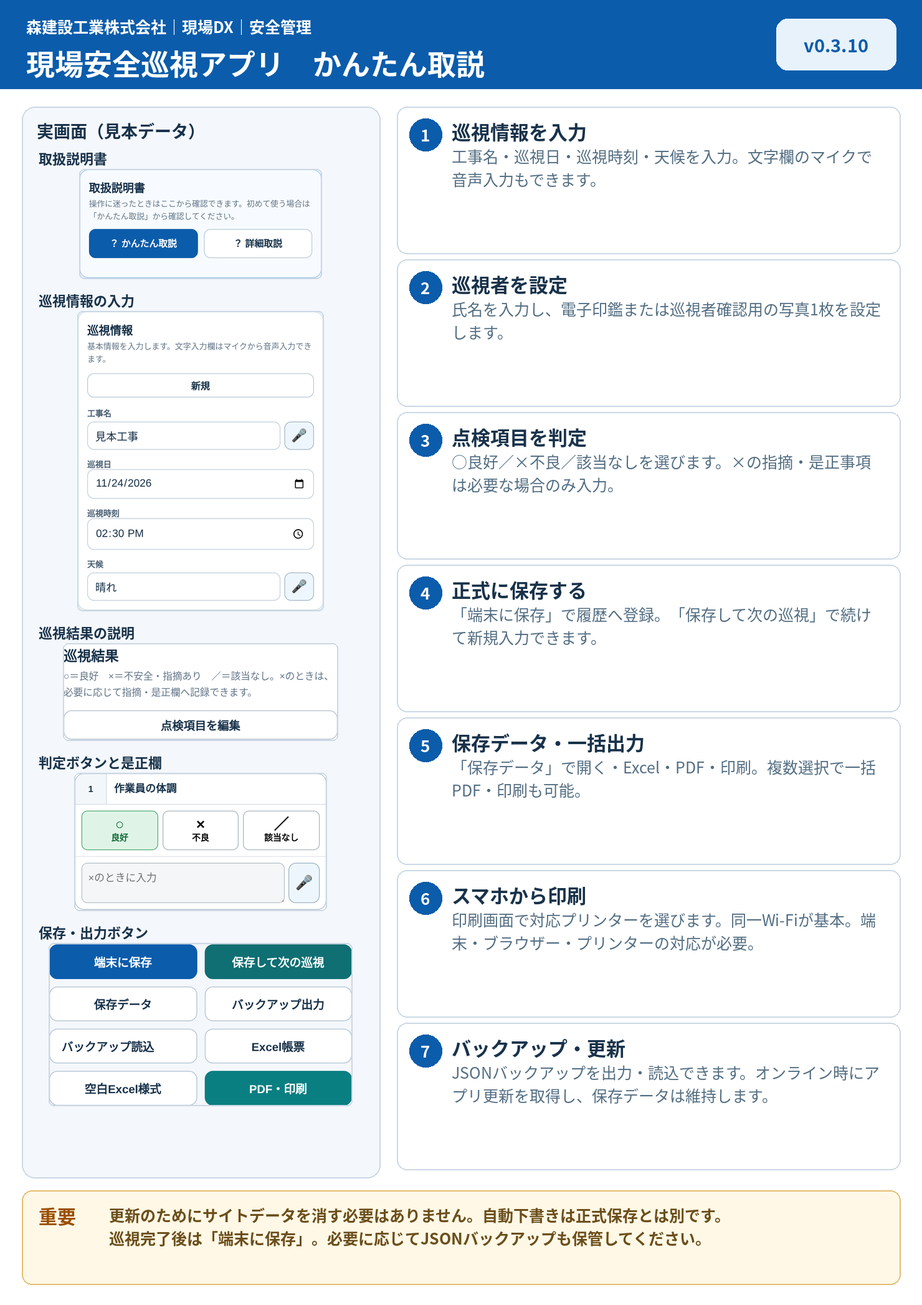
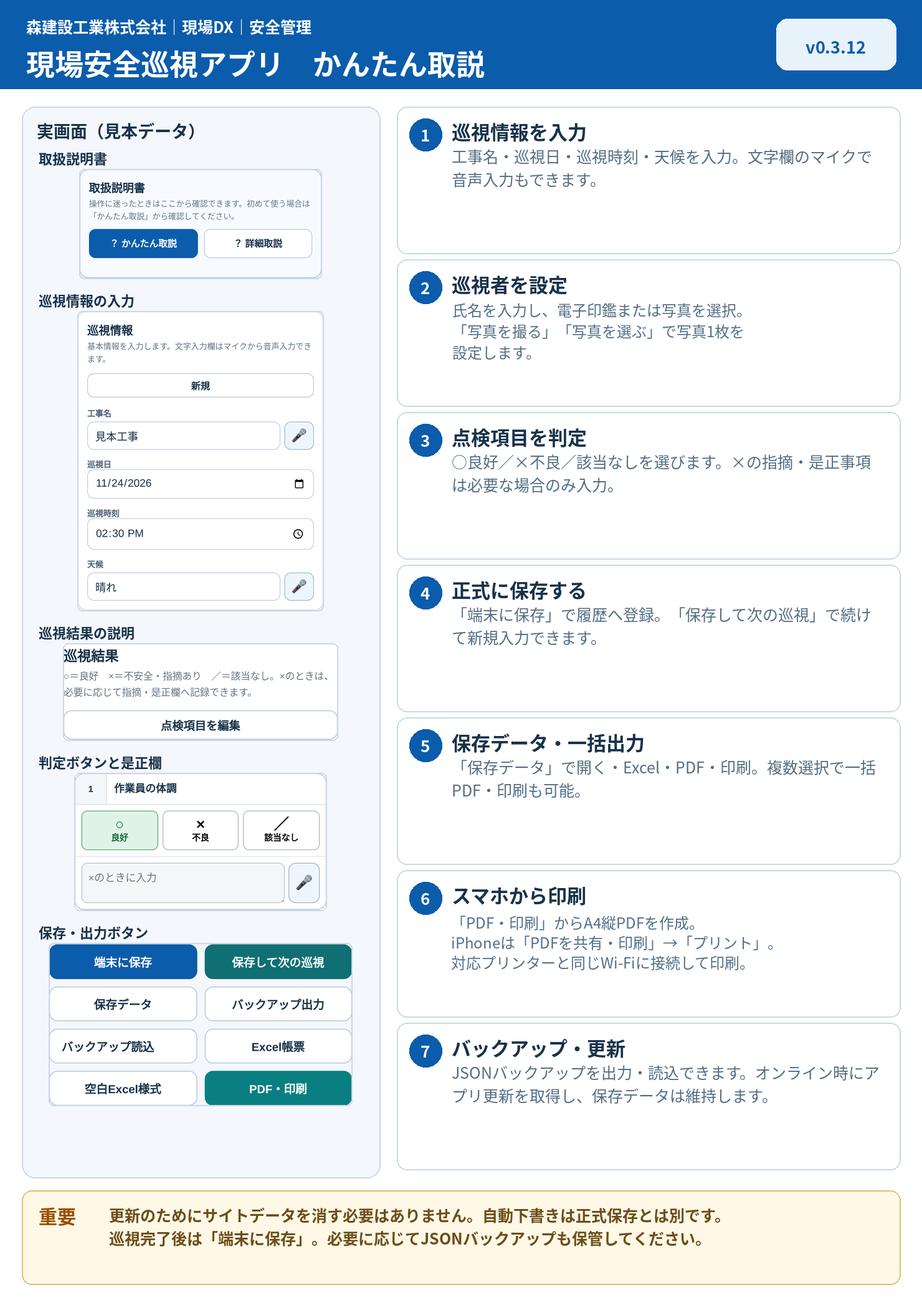
v0.3.12 写真撮影ボタン追加・PDF帳票印欄修正

diff --git a/index.html b/index.html
@@ -4,11 +4,11 @@
 <meta charset="utf-8">
 <meta name="viewport" content="width=device-width,initial-scale=1,viewport-fit=cover">
 <meta name="theme-color" content="#0b5cab">
-<meta name="app-revision" content="v0.3.10-r1">
+<meta name="app-revision" content="v0.3.12-r1">
 <meta name="description" content="森建設工業 現場安全巡視点検アプリ">
 <link rel="manifest" href="./manifest.webmanifest">
 <link rel="icon" href="./icon.svg" type="image/svg+xml">
-<title>現場安全巡視 v0.3.10｜森建設工業DX</title>
+<title>現場安全巡視 v0.3.12｜森建設工業DX</title>
 <style>
 :root{--bg:#f4f7fb;--card:#fff;--text:#18324a;--muted:#66788a;--line:#d6e0ea;--blue:#0b5cab;--blue2:#e8f2fb;--teal:#0a7f82;--orange:#c86b16;--red:#b42318;--shadow:0 8px 24px rgba(25,55,80,.08)}
 *{box-sizing:border-box}body{margin:0;background:var(--bg);color:var(--text);font-family:-apple-system,BlinkMacSystemFont,"Segoe UI","Noto Sans JP","Meiryo",sans-serif}.app-header{display:flex;justify-content:space-between;gap:16px;padding:18px 22px;background:#fff;border-bottom:1px solid var(--line);position:sticky;top:0;z-index:20}.eyebrow{font-size:12px;color:var(--muted);font-weight:700}.app-header h1{font-size:22px;margin:3px 0}.subline{font-size:13px;color:var(--muted)}.status-wrap{display:flex;align-items:center;gap:8px}.status-badge,.version,.legend-chip{font-size:12px;padding:6px 9px;border-radius:999px;background:var(--blue2);color:var(--blue);white-space:nowrap}.app-shell{max-width:1280px;margin:0 auto;padding:18px}.panel{background:var(--card);border:1px solid var(--line);border-radius:16px;padding:16px;box-shadow:var(--shadow);margin-bottom:16px}.section-head{display:flex;justify-content:space-between;align-items:flex-start;gap:12px;flex-wrap:wrap}.section-head>div:first-child{flex:1 1 auto;min-width:0}.section-head h2{font-size:17px;margin:0 0 4px}.hint{margin:0;color:var(--muted);font-size:12px;line-height:1.55;word-break:normal;overflow-wrap:break-word}.form-grid{display:grid;grid-template-columns:repeat(4,minmax(0,1fr));gap:12px;margin-top:14px}.field label,.form-grid label{font-size:12px;font-weight:700;color:#4b6074;display:block}.input-row{display:flex;gap:6px;margin-top:5px}.input-row input,.input-row textarea,.field input,.field select,.field textarea,.form-grid input,.form-grid select{width:100%;border:1px solid #bfcddb;border-radius:10px;padding:11px;font-size:16px;color:var(--text);background:#fff;font-family:inherit}.input-row textarea{min-height:72px;resize:vertical}.voice{flex:0 0 44px;border:1px solid #9db3c5;background:#eef6fd;color:#0b5cab;border-radius:10px;font-size:19px;cursor:pointer}.voice.listening{background:#ffe6e3;border-color:#db6a61;color:#b42318;animation:pulse 1s infinite}@keyframes pulse{50%{opacity:.55}}
@@ -96,6 +96,29 @@
 #quickGuideDialog .guide-image-actions .btn,#detailGuideDialog .guide-image-actions .btn{min-width:0;flex:1;white-space:nowrap;padding:8px 5px}
 @media(max-height:550px){#quickGuideDialog .guide-caption,#detailGuideDialog .guide-caption{display:none}#quickGuideDialog .guide-dialog-card,#detailGuideDialog .guide-dialog-card{grid-template-rows:auto auto minmax(0,1fr) auto;gap:4px;padding:8px!important}}
 
+
+/* v0.3.11: fixed A4 PDF output dialog, scoped to this dialog only. */
+#pdfDialog{width:min(560px,94vw);max-height:92vh;max-height:92dvh;margin:auto;overflow:auto;color:var(--text);background:#fff}
+#pdfDialog .pdf-card{padding:15px;display:grid;gap:11px;min-width:0}
+#pdfDialog .pdf-header{display:flex;gap:10px;align-items:center;justify-content:space-between}
+#pdfDialog h2{margin:0;font-size:18px;line-height:1.35}
+#pdfDialog .pdf-header .btn{flex:none;white-space:nowrap}
+#pdfDialog p{font-size:13px;line-height:1.6;margin:0;overflow-wrap:anywhere}
+#pdfDialog #pdfCount{font-weight:700;color:var(--blue);font-size:14px}
+#pdfDialog #pdfProgress{width:100%;height:12px;accent-color:var(--blue)}
+#pdfDialog .pdf-preview-area{background:#edf2f6;border:1px solid var(--line);border-radius:10px;padding:7px;text-align:center}
+#pdfDialog #pdfPreview{display:block;max-width:100%;width:auto;height:auto;max-height:min(42vh,400px);margin:0 auto;border:1px solid #c0ccd6;object-fit:contain}
+#pdfDialog #pdfPreviewCaption{font-size:11px;color:var(--muted);margin-top:5px}
+#pdfDialog .pdf-actions{display:grid;grid-template-columns:repeat(2,minmax(0,1fr));gap:8px}
+#pdfDialog .pdf-actions .btn{min-width:0;display:block;text-align:center;text-decoration:none;font-size:14px;line-height:1.4;padding:12px 6px}
+#pdfDialog #pdfShareBtn{grid-column:1/-1}
+#pdfDialog .pdf-note{color:var(--muted);font-size:12px}
+#pdfDialog .pdf-error{color:var(--red);font-weight:700}
+
+
+/* v0.3.12: photo controls only. */
+#photoControls .photo-actions>button{min-width:0;white-space:normal;line-height:1.4;text-align:center;min-height:42px}
+@media(max-width:560px){#photoControls .photo-actions{display:grid;grid-template-columns:minmax(0,1fr) minmax(0,1fr);gap:8px}#photoControls #removePhoto{grid-column:1/-1;justify-self:start}#photoControls .photo-actions>button{padding:9px 6px}}
 </style>
 </head>
 <body>
@@ -107,7 +130,7 @@
   </div>
   <div class="status-wrap">
     <span id="draftBadge" class="status-badge">自動下書き</span>
-    <span class="version">v0.3.10</span>
+    <span class="version">v0.3.12</span>
   </div>
 </header>
 <main class="app-shell">
@@ -148,8 +171,8 @@
           <p class="small">例：「佐々木かなめ」「佐々木 要」→「佐々木」。自動判定が違う場合だけ印鑑文字を修正してください。</p>
         </div>
         <div id="photoControls" class="hidden">
-          <div class="photo-actions"><label class="btn" for="photoInput">写真を選ぶ／撮る</label><input id="photoInput" type="file" accept="image/*" hidden><button id="removePhoto" class="btn btn-light" type="button">写真を外す</button></div>
-          <p class="small">顔・全身などの区分は設けません。巡視者確認用の写真を1枚設定します。</p>
+          <div class="photo-actions"><button id="takePhotoBtn" class="btn btn-primary" type="button">写真を撮る</button><input id="cameraInput" type="file" accept="image/*" capture="user" hidden><button id="choosePhotoBtn" class="btn" type="button">写真を選ぶ</button><input id="photoInput" type="file" accept="image/*" hidden><button id="removePhoto" class="btn btn-light" type="button">写真を外す</button></div>
+          <p class="small">撮影または端末内の写真から、巡視者確認用の写真を1枚設定します。</p>
         </div>
       </div>
       <div class="identity-preview" id="identityPreview"></div>
@@ -193,8 +216,8 @@
 
   <section class="panel release-history-panel">
     <details>
-      <summary>バージョンアップ情報（変更履歴 v0.1.0 ～ v0.3.10）</summary>
-      <div class="release-history"><div class="release-entry current"><div class="release-title">v0.3.10 <span>2026-11-25</span></div><ul><li>取説画像とアプリアイコンの旧キャッシュのみ自動削除・更新</li><li>保存履歴・巡視者写真・下書き・設定・点検項目を保持</li><li>最新版の取得が完了してから更新を有効化。既存機能と表示を維持</li></ul></div><div class="release-entry"><div class="release-title">v0.3.9 <span>2026-11-24</span></div><ul><li>「かんたん取説」「詳細取説」を画像付きガイドに変更</li><li>取説画像の縦横比を維持して表示し、拡大表示にも対応</li><li>スマホで「巡視結果」の見出し・説明文が縦詰まりしないようレイアウトを修正</li><li>保存キー・保存データ形式・一括PDF/印刷・元帳票.xlsx出力はv0.3.8から変更なし</li></ul></div>
+      <summary>バージョンアップ情報（変更履歴 v0.1.0 ～ v0.3.12）</summary>
+      <div class="release-history"><div class="release-entry current"><div class="release-title">v0.3.12 <span>2026-11-25</span></div><ul><li>PDF帳票の巡視員名横の「印」欄を削除し、氏名欄に統合</li><li>巡視者写真の撮影用と端末写真の選択用ボタンを分離。撮影では前面カメラを優先</li><li>画像付き取説を更新。既存の保存データ・A4 PDF・一括出力・Excel・キャッシュ更新を維持</li></ul></div><div class="release-entry"><div class="release-title">v0.3.11 <span>2026-11-25</span></div><ul><li>印刷用HTMLをA4縦のPDF実ファイルに変更。通常30項目・備考を1件1ページに収めるよう修正</li><li>現在の記録・保存データの個別出力・一括出力で同じPDF方式を使用。iPhone/iPadでは共有画面から印刷可能</li><li>長文は文字を切り捨てず、収まらない場合のみ続紙へ出力</li><li>既存のExcel帳票、保存キー、写真、下書き、設定、点検項目、画像キャッシュ保護を維持</li></ul></div><div class="release-entry"><div class="release-title">v0.3.10 <span>2026-11-25</span></div><ul><li>取説画像とアプリアイコンの旧キャッシュのみ自動削除・更新</li><li>保存履歴・巡視者写真・下書き・設定・点検項目を保持</li><li>最新版の取得が完了してから更新を有効化。既存機能と表示を維持</li></ul></div><div class="release-entry"><div class="release-title">v0.3.9 <span>2026-11-24</span></div><ul><li>「かんたん取説」「詳細取説」を画像付きガイドに変更</li><li>取説画像の縦横比を維持して表示し、拡大表示にも対応</li><li>スマホで「巡視結果」の見出し・説明文が縦詰まりしないようレイアウトを修正</li><li>保存キー・保存データ形式・一括PDF/印刷・元帳票.xlsx出力はv0.3.8から変更なし</li></ul></div>
         <div class="release-entry"><div class="release-head"><b>v0.3.8</b><span>2026/11/24</span></div><ul><li>保存データを複数選択して一括PDF・印刷できる機能を追加</li><li>アプリ内に「かんたん取説」「詳細取説」を追加</li><li>v0.3.7の保存キー・保存データ形式・Excel帳票出力を変更せず維持</li></ul></div>
         <div class="release-entry"><div class="release-head"><b>v0.3.7</b><span>2026/11/23</span></div><ul><li>Excel帳票・空白Excel様式の出力スクリプト読み込み漏れを修正</li><li>完成版としてZIP構成・スマホ表示・保存・帳票出力・バージョン情報を再点検</li><li>スマホの「点検項目を編集」ボタンを全幅表示へ調整</li></ul></div>
         <div class="release-entry"><div class="release-head"><b>v0.3.6</b><span>2026/11/23</span></div><ul><li>スマホ縦画面の巡視結果をカード表示へ変更し、横スクロールなしで○／×／該当なしを選択可能に改善</li><li>PC・タブレットでは従来の表形式を維持</li></ul></div>
@@ -223,12 +246,13 @@
 <dialog id="historyDialog"><div class="dialog-card"><div class="section-head"><div><h2>保存データ</h2><p class="hint">保存した巡視記録を開く・出力・削除できます。複数選択して一括PDF・印刷もできます。</p></div><button class="btn btn-light" id="closeHistory" type="button">閉じる</button></div><div class="history-toolbar"><label class="checkline"><input id="historySelectAll" type="checkbox"> 一覧を全選択</label><span id="historySelectedCount" class="small">0件選択中</span><div class="history-bulk-actions"><button id="bulkPrintBtn" class="btn btn-accent" type="button" disabled>選択データを一括PDF・印刷</button><button id="bulkClearBtn" class="btn btn-light" type="button">選択解除</button></div></div><div id="historyList" class="history-list"></div></div></dialog>
 <dialog id="quickGuideDialog"><div class="dialog-card guide-dialog-card"><div class="section-head guide-dialog-head"><div><h2>かんたん取説</h2><p class="hint">最初は全体が1画面に収まる大きさで表示します。</p></div><button class="btn btn-light" id="closeQuickGuide" type="button">閉じる</button></div><div class="guide-image-controls" aria-label="画像の表示倍率"><button class="btn btn-light guide-zoom-btn" type="button" data-guide-zoom="out" data-guide-target="quickGuideImage">－ 縮小</button><button class="btn btn-light guide-zoom-btn" type="button" data-guide-zoom="fit" data-guide-target="quickGuideImage">全体表示</button><span class="guide-zoom-label" id="quickGuideZoomLabel">全体 100%</span><button class="btn btn-light guide-zoom-btn" type="button" data-guide-zoom="in" data-guide-target="quickGuideImage">＋ 拡大</button></div><div class="guide-image-wrap"><img id="quickGuideImage" src="./guide-quick.png" alt="現場安全巡視アプリ かんたん取説"></div><p class="guide-caption">入力から保存、保存データ、一括PDF・印刷までを1枚で確認できます。</p><div class="guide-image-actions"><button id="openDetailFromQuick" class="btn" type="button">詳細取説へ</button><button id="closeQuickGuide2" class="btn btn-primary" type="button">閉じる</button></div></div></dialog>
 <dialog id="detailGuideDialog"><div class="dialog-card guide-dialog-card"><div class="section-head guide-dialog-head"><div><h2>詳細取説</h2><p class="hint">最初は全体が1画面に収まる大きさで表示します。</p></div><button class="btn btn-light" id="closeDetailGuide" type="button">閉じる</button></div><div class="guide-image-controls" aria-label="画像の表示倍率"><button class="btn btn-light guide-zoom-btn" type="button" data-guide-zoom="out" data-guide-target="detailGuideImage">－ 縮小</button><button class="btn btn-light guide-zoom-btn" type="button" data-guide-zoom="fit" data-guide-target="detailGuideImage">全体表示</button><span class="guide-zoom-label" id="detailGuideZoomLabel">全体 100%</span><button class="btn btn-light guide-zoom-btn" type="button" data-guide-zoom="in" data-guide-target="detailGuideImage">＋ 拡大</button></div><div class="guide-image-wrap"><img id="detailGuideImage" src="./guide-detail.png" alt="現場安全巡視アプリ 詳細取説"></div><p class="guide-caption">巡視情報、巡視者、30項目判定、期間コピー、保存データ、一括PDF・印刷、Excel帳票、バックアップまで説明しています。</p><div class="guide-image-actions"><button id="closeDetailGuide2" class="btn btn-primary" type="button">閉じる</button></div></div></dialog>
+<dialog id="pdfDialog"><div class="pdf-card"><div class="pdf-header"><h2>PDF・印刷（A4縦）</h2><button id="closePdfDialog" type="button" class="btn btn-light">閉じる</button></div><p id="pdfMessage" role="status" aria-live="polite">PDFを準備しています。</p><progress id="pdfProgress" value="0" max="1"></progress><p id="pdfCount" aria-live="polite"></p><div id="pdfPreviewArea" class="pdf-preview-area hidden"><img id="pdfPreview" alt="PDF先頭ページの印刷プレビュー"><p id="pdfPreviewCaption"></p></div><div class="pdf-actions"><button id="pdfShareBtn" class="btn btn-primary hidden" type="button">PDFを共有・印刷</button><a id="pdfOpenBtn" class="btn btn-primary hidden" target="_blank" rel="noopener">PDFを開く</a><a id="pdfSaveBtn" class="btn hidden" download>PDFを保存</a></div><p class="pdf-note">用紙はA4・縦を選択してください。PDFを使うため印刷時にHTMLの改ページが発生しません。iPhone／iPadは共有画面からプリントできます。対応プリンターが必要です。</p></div></dialog>
 <div id="toast" class="toast"></div>
 <script src="./excel-export.js"></script>
 <script>
 (()=>{
 'use strict';
-const APP_VERSION='0.3.10';
+const APP_VERSION='0.3.12';
 const STORAGE_KEY='moriken_safety_patrol_v1';
 const SETTINGS_KEY='moriken_safety_patrol_settings_v1';
 const TEMPLATE_KEY='moriken_safety_patrol_template_v1';
@@ -356,14 +380,226 @@ function renderHistory(){const box=$('historyList');const validIds=new Set(histo
 function updateHistorySelectionUi(){const count=selectedHistoryIds.size;$('historySelectedCount').textContent=`${count}件選択中`;$('bulkPrintBtn').disabled=count===0;const all=$('historySelectAll');all.checked=history.length>0&&count===history.length;all.indeterminate=count>0&&count<history.length}
 function clearHistorySelection(){selectedHistoryIds.clear();renderHistory()}
 function selectedHistoryRecords(){return history.filter(r=>selectedHistoryIds.has(r.id)).sort((a,b)=>String(a.workDate).localeCompare(String(b.workDate))||String(a.updatedAt).localeCompare(String(b.updatedAt)))}
-function printSelectedRecords(){const records=selectedHistoryRecords();if(!records.length){toast('一括PDF・印刷するデータを選択してください');return}for(const r of records){if(!validateForOutput(r))return}const w=window.open('','_blank');if(!w){toast('ポップアップを許可してください');return}const pages=records.map((r,i)=>{const html=reportHtml(r);const body=(html.match(/<body>([\s\S]*?)<\/body>/i)||[])[1]||html;return `<section class="bulk-page" style="break-after:${i===records.length-1?'auto':'page'};page-break-after:${i===records.length-1?'auto':'always'}">${body}</section>`}).join('');w.document.write(`<!doctype html><html><head><meta charset="utf-8"><style>@page{size:A4 portrait;margin:9mm}body{font-family:Meiryo,sans-serif;color:#111;margin:0}h2{text-align:center;margin:4px 0 8px;font-size:17px}table{border-collapse:collapse;width:100%}th,td{border:1px solid #555;padding:4px;font-size:10px;vertical-align:middle}th{background:#dce8f2}.meta td,.meta th{font-size:10px}.identity{text-align:center;width:95px}.note{white-space:pre-wrap}.bulk-page{margin:0;padding:0}</style></head><body>${pages}</body></html>`);w.document.close();w.onload=()=>setTimeout(()=>w.print(),220)}
-function statusMark(s){return s==='good'?'○':s==='bad'?'×':s==='na'?'／':''}
-function dateJP(s){if(!s)return'';const [y,m,d]=s.split('-');return `${y}年${Number(m)}月${Number(d)}日`}
-function identityHtml(r){if(r.identityMode==='photo')return r.photoData?`<img src="${r.photoData}" style="width:82px;height:82px;object-fit:cover;border:1px solid #777">`:'写真未設定';const t=esc(r.sealText||deriveSurname(r.inspector)||'印');return `<div style="width:70px;height:70px;border:2px solid #c52f2f;border-radius:50%;display:flex;align-items:center;justify-content:center;color:#c52f2f;font-family:serif;font-weight:bold;font-size:18px;writing-mode:vertical-rl;margin:auto">${t}</div>`}
-function reportHtml(r){let rows='';let no=0;for(const sec of sections(r.items)){rows+=`<tr><td colspan="4" style="background:#e8edf1;font-weight:bold">${esc(sec)}</td></tr>`;for(const item of r.items.filter(x=>x.section===sec)){no++;const c=(r.checks||[]).find(x=>x.itemId===item.id)||{};rows+=`<tr><td style="text-align:center;width:38px">${no}</td><td>${esc(item.label)}</td><td style="text-align:center;font-size:18px;font-weight:bold;width:58px">${statusMark(c.status)}</td><td style="width:38%;white-space:pre-wrap">${esc(c.note||'')}</td></tr>`}}
-const batch=r.batchMeta?`<div style="font-size:9px;color:#666;margin-top:5px">期間コピー：元日 ${esc(r.batchMeta.sourceDate)} ／ 作成 ${esc(new Date(r.batchMeta.createdAt).toLocaleString('ja-JP'))}</div>`:'';
-return `<!doctype html><html><head><meta charset="utf-8"><style>@page{size:A4 portrait;margin:9mm}body{font-family:Meiryo,sans-serif;color:#111}h2{text-align:center;margin:4px 0 8px;font-size:17px}table{border-collapse:collapse;width:100%}th,td{border:1px solid #555;padding:4px;font-size:10px;vertical-align:middle}th{background:#dce8f2}.meta td,.meta th{font-size:10px}.identity{text-align:center;width:95px}.note{white-space:pre-wrap}</style></head><body><h2>現場安全巡視点検表</h2><table class="meta"><tr><th>工事名</th><td colspan="3">${esc(r.projectName)}</td><th rowspan="3">巡視者<br>${r.identityMode==='photo'?'写真':'電子印鑑'}</th><td rowspan="3" class="identity">${identityHtml(r)}</td></tr><tr><th>巡視日</th><td>${esc(dateJP(r.workDate))}</td><th>巡視時刻</th><td>${esc(r.patrolTime||'')}</td></tr><tr><th>天候</th><td>${esc(r.weather||'')}</td><th>巡視者</th><td>${esc(r.inspector||'')}</td></tr></table><br><table><thead><tr><th>No.</th><th>点検項目</th><th>判定</th><th>巡視者指摘・是正事項</th></tr></thead><tbody>${rows}<tr><th colspan="2">全体備考</th><td colspan="2" class="note">${esc(r.remarks||'')}</td></tr></tbody></table>${batch}<div style="font-size:9px;color:#777;margin-top:5px">森建設工業DX 現場安全巡視 v${APP_VERSION}</div></body></html>`}
-function printRecord(r){if(!validateForOutput(r))return;const w=window.open('','_blank');if(!w){toast('ポップアップを許可してください');return}w.document.write(reportHtml(r));w.document.close();w.onload=()=>setTimeout(()=>w.print(),180)}
+// Fixed-size A4 PDF output. No user data is written by this module.
+// One page per normal record; unusually long content is continued without truncation.
+const PDF_FORM={width:210,height:297,left:10,right:200,top:11,bottom:280,cols:[7,83,10,10,80],remarksLabel:30,pixelsPerMm:240/25.4};
+const PDF_FONT='"Hiragino Sans","Hiragino Kaku Gothic ProN","Yu Gothic","Meiryo","Noto Sans CJK JP",sans-serif';
+let pdfJob=0,pdfPrepared=null;
+function pdfFont(ctx,size,bold=false){ctx.font=`${bold?'700':'400'} ${size}px ${PDF_FONT}`;ctx.textBaseline='middle';}
+function pdfLines(ctx,value,width,size,bold=false){
+  pdfFont(ctx,size,bold);const out=[];
+  for(const paragraph of String(value??'').replace(/\r\n?/g,'\n').replace(/\t/g,'  ').split('\n')){
+    let line='';
+    for(const ch of paragraph){const next=line+ch;if(line&&ctx.measureText(next).width>width){out.push(line);line=ch;}else line=next;}
+    out.push(line);
+  }return out.length?out:[''];
+}
+function pdfText(ctx,lines,x,y,w,h,size,{bold=false,align='left',color='#17212b',lineH=size*1.25,pad=1.2}={}){
+  pdfFont(ctx,size,bold);ctx.fillStyle=color;ctx.textAlign=align==='center'?'center':'left';
+  const tx=align==='center'?x+w/2:x+pad;
+  const start=y+(h-lines.length*lineH)/2+lineH/2;
+  lines.forEach((line,i)=>ctx.fillText(line,tx,start+i*lineH));
+}
+function pdfBox(ctx,x,y,w,h,fill=null){
+  if(fill){ctx.fillStyle=fill;ctx.fillRect(x,y,w,h);}
+  ctx.strokeStyle='#46515a';ctx.lineWidth=.15;ctx.strokeRect(x,y,w,h);
+}
+function pdfCell(ctx,lines,x,y,w,h,size,opts={}){pdfBox(ctx,x,y,w,h,opts.fill||null);pdfText(ctx,lines,x,y,w,h,size,opts);}
+function pdfDate(iso){const d=new Date(String(iso||'')+'T00:00:00');if(isNaN(d.getTime()))return String(iso||'');const y=d.getFullYear();return `${y>=2019?'R'+(y-2018):y}年 ${d.getMonth()+1}月 ${d.getDate()}日（${'日月火水木金土'[d.getDay()]}）`;}
+function pdfHeaderPlan(ctx,r){
+  const s=3.15,lh=s*1.25,project=pdfLines(ctx,r.projectName,165.6,s,true);
+  const date=pdfLines(ctx,pdfDate(r.workDate),95.6,s),time=pdfLines(ctx,r.patrolTime,40.6,s),weather=pdfLines(ctx,r.weather,34,s),name=pdfLines(ctx,r.inspector,95.6,s);
+  const projectH=Math.max(7,project.length*lh+2),titleH=8.7;
+  const h=[Math.max(7,date.length*lh+1.8),Math.max(7,Math.max(time.length,weather.length)*lh+1.8),Math.max(9,name.length*lh+1.8)];
+  const tableY=PDF_FORM.top+projectH+titleH+h.reduce((a,b)=>a+b,0)+2.7;
+  if(tableY>PDF_FORM.bottom-25)throw new Error('工事名などの基本情報が長すぎます。PDFの作成を中止しました。入力データは変更していません。');
+  return {s,lh,project,date,time,weather,name,projectH,titleH,h,tableY};
+}
+function pdfDrawHeader(ctx,r,head,identity,part,total){
+  const x=PDF_FORM.left,w=190,s=head.s,lh=head.lh;let y=PDF_FORM.top;
+  pdfCell(ctx,['工事名'],x,y,22,head.projectH,3.05,{align:'center',fill:'#f3f5f6'});
+  pdfCell(ctx,head.project,x+22,y,w-22,head.projectH,s,{bold:true,lineH:lh});y+=head.projectH;
+  pdfText(ctx,['現場安全巡視点検表'],x,y,w,head.titleH,4.55,{bold:true,align:'center'});
+  if(total>1)pdfText(ctx,[`${part}/${total}ページ`],x+151,y,39,head.titleH,2.8,{align:'center'});
+  y+=head.titleH;
+  const label={align:'center',fill:'#f3f5f6'},val={lineH:lh};
+  const [h1,h2,h3]=head.h;
+  pdfCell(ctx,['作業日'],x,y,22,h1,3.0,label);pdfCell(ctx,head.date,x+22,y,98,h1,s,val);
+  pdfCell(ctx,['点検時刻'],x,y+h1,22,h2,3.0,label);pdfCell(ctx,head.time,x+22,y+h1,43,h2,s,val);
+  pdfCell(ctx,['天候'],x+65,y+h1,19,h2,3.0,label);pdfCell(ctx,head.weather,x+84,y+h1,36,h2,s,val);
+  pdfCell(ctx,['巡視員名'],x,y+h1+h2,22,h3,3.0,label);pdfCell(ctx,head.name,x+22,y+h1+h2,98,h3,s,val);
+  const approvalY=y,approvalH=h1+h2+h3,headingH=6.3,approvals=[['現場代理人',22],['監理技術者',22],['安全巡視員',26]];
+  let ax=x+120;
+  for(let i=0;i<approvals.length;i++){
+    const [text,aw]=approvals[i];pdfCell(ctx,[text],ax,approvalY,aw,headingH,2.85,{align:'center',fill:'#f3f5f6'});
+    pdfBox(ctx,ax,approvalY+headingH,aw,approvalH-headingH);
+    if(i===2){const ah=approvalH-headingH;if(identity){const size=Math.min(aw-2.5,ah-1.8);ctx.drawImage(identity,ax+(aw-size)/2,approvalY+headingH+(ah-size)/2,size,size);}
+      else pdfText(ctx,[r.identityMode==='photo'?'写真未設定':'印鑑未設定'],ax,approvalY+headingH,aw,ah,2.65,{align:'center',color:'#555'});}
+    ax+=aw;
+  }
+}
+function pdfRows(ctx,r,size){
+  const lh=size*1.25,pad=1.25,scale=size/3.25,rows=[];let no=0;
+  for(const sec of sections(r.items)){
+    rows.push({kind:'section',a:pdfLines(ctx,`【${sec}】`,PDF_FORM.cols[1]-2.4,size,true),b:[],lh,pad,minH:4.9*scale});
+    for(const it of r.items.filter(it=>it.section===sec)){
+      const c=(r.checks||[]).find(z=>z.itemId===it.id)||{};
+      rows.push({kind:'item',no:++no,status:c.status,a:pdfLines(ctx,it.label,PDF_FORM.cols[1]-2.4,size),b:pdfLines(ctx,c.note||'',PDF_FORM.cols[4]-2.4,size),lh,pad,minH:5.25*scale});
+    }
+  }
+  rows.push({kind:'remarks',a:[],b:pdfLines(ctx,r.remarks||'',190-PDF_FORM.remarksLabel-2.4,size),lh,pad,minH:18});
+  return rows;
+}
+function pdfRowHeight(r){return Math.max(r.minH||0,Math.max(r.a.length,r.b.length,1)*r.lh+r.pad);}
+function pdfSplitRows(rows,capacity){
+  const pages=[];let page=[],used=0;
+  function next(){if(page.length){pages.push(page);page=[];used=0;}}
+  function add(row){page.push(row);used+=pdfRowHeight(row);}
+  if(capacity<12)throw new Error('PDFの帳票スペースが不足しています。');
+  for(let i=0;i<rows.length;i++){
+    let row=rows[i],height=pdfRowHeight(row);
+    if(row.kind==='section'&&i+1<rows.length&&page.length&&height+Math.min(pdfRowHeight(rows[i+1]),capacity-height)>capacity-used+.0001)next();
+    if(height<=capacity+.0001){if(page.length&&used+height>capacity+.0001)next();add(row);continue;}
+    // A single unusually long note or edited item may span pages; preserve every line.
+    let a=row.a.slice(),b=row.b.slice(),continuation=false;
+    while(a.length||b.length){
+      let room=capacity-used;let count=Math.floor((room-row.pad+.0001)/row.lh);
+      if(count<1){next();continue;}
+      const fragment={...row,a:a.splice(0,count),b:b.splice(0,count),minH:0,continuation};
+      add(fragment);continuation=true;
+      if(a.length||b.length)next();
+    }
+  }
+  next();return pages;
+}
+function pdfPlan(ctx,r){
+  const header=pdfHeaderPlan(ctx,r),capacity=PDF_FORM.bottom-header.tableY-6.7;
+  for(const size of [3.25,3.15,3.05,2.95,2.85,2.75,2.65]){
+    const rows=pdfRows(ctx,r,size);
+    if(rows.reduce((n,row)=>n+pdfRowHeight(row),0)<=capacity+.0001)return {header,size,pages:[rows]};
+  }
+  // If a single readable page is impossible, keep normal type size and use a continuation.
+  const size=3.25;return {header,size,pages:pdfSplitRows(pdfRows(ctx,r,size),capacity)};
+}
+function pdfDrawTable(ctx,plan,page,r,part,total){
+  const x=PDF_FORM.left,cols=PDF_FORM.cols,size=plan.size;let y=plan.header.tableY;
+  const headH=6.7,headOpts={align:'center',bold:true,fill:'#edf1f4'};
+  pdfCell(ctx,['点検項目・内容'],x,y,cols[0]+cols[1],headH,3.2,headOpts);
+  pdfCell(ctx,['良好'],x+90,y,10,headH,3.1,headOpts);
+  pdfCell(ctx,['不良'],x+100,y,10,headH,3.1,headOpts);
+  pdfCell(ctx,['指摘事項および是正内容'],x+110,y,80,headH,3.2,headOpts);y+=headH;
+  for(const row of page){
+    const h=pdfRowHeight(row),opts={lineH:row.lh};
+    if(row.kind==='section'){
+      pdfCell(ctx,row.a,x,y,90,h,size,{...opts,bold:true,fill:'#f2f4f6',pad:1.8});
+      pdfBox(ctx,x+90,y,10,h,'#f2f4f6');pdfBox(ctx,x+100,y,10,h,'#f2f4f6');pdfBox(ctx,x+110,y,80,h,'#f2f4f6');
+    }else if(row.kind==='item'){
+      pdfCell(ctx,[String(row.no)+(row.continuation?'続':'')],x,y,7,h,row.continuation?2.25:3.0,{align:'center'});
+      pdfCell(ctx,row.a,x+7,y,83,h,size,opts);
+      const markGood=row.status==='good'?'○':row.status==='na'?'／':'',markBad=row.status==='bad'?'×':row.status==='na'?'／':'';
+      pdfCell(ctx,[markGood],x+90,y,10,h,Math.min(4,size*1.23),{align:'center',bold:true});
+      pdfCell(ctx,[markBad],x+100,y,10,h,Math.min(4,size*1.23),{align:'center',bold:true});
+      pdfCell(ctx,row.b,x+110,y,80,h,size,opts);
+    }else{
+      const rw=PDF_FORM.remarksLabel;pdfCell(ctx,[row.continuation?'全体備考（続）':'全体備考'],x,y,rw,h,3.15,{align:'center',bold:true,fill:'#f3f5f6'});pdfCell(ctx,row.b,x+rw,y,190-rw,h,size,opts);
+    }
+    y+=h;
+  }
+  if(y>PDF_FORM.bottom+.01)throw new Error('印刷帳票がA4の範囲を超えました。');
+  const copy=r.batchMeta?`　期間コピー：元日 ${r.batchMeta.sourceDate||''}`:'';
+  const draft=r.status!=='complete'?'　要確認（下書き）':'';
+  pdfText(ctx,[`森建設工業DX　現場安全巡視 v${APP_VERSION}${copy}${draft}`],x,y+.6,190,4,2.4,{color:'#555'});
+}
+async function pdfIdentity(r){
+  if(r.identityMode==='photo'&&!r.photoData)return null;
+  return imageLoad(await identityDataUrl(r));
+}
+async function pdfCanvasJpeg(canvas){
+  if(typeof canvas.toBlob==='function')return await new Promise((resolve,reject)=>canvas.toBlob(b=>b&&b.size?resolve(b):reject(new Error('PDF画像の生成に失敗しました。')),'image/jpeg',.95));
+  const base64=canvas.toDataURL('image/jpeg',.95).split(',')[1];if(!base64)throw new Error('PDF画像の生成に失敗しました。');
+  return new Blob([Uint8Array.from(atob(base64),c=>c.charCodeAt(0))],{type:'image/jpeg'});
+}
+function pdfFromImages(images){
+  if(!images.length)throw new Error('PDFに出力するページがありません。');
+  const enc=new TextEncoder(),parts=[],offsets=[0];let pos=0;
+  const push=part=>{const data=typeof part==='string'?enc.encode(part):part;parts.push(data);pos+=data instanceof Blob?data.size:data.byteLength;};
+  const object=(id,body)=>{offsets[id]=pos;push(`${id} 0 obj\n`);for(const part of body)push(part);push('\nendobj\n');};
+  const pw=(210*72/25.4).toFixed(5),ph=(297*72/25.4).toFixed(5),ids=images.map((_,i)=>3+i*3);
+  push('%PDF-1.6\n%');push(new Uint8Array([0xe2,0xe3,0xcf,0xd3,10]));
+  object(1,['<< /Type /Catalog /Pages 2 0 R /ViewerPreferences << /PrintScaling /None >> >>']);
+  object(2,[`<< /Type /Pages /Count ${images.length} /Kids [${ids.map(id=>`${id} 0 R`).join(' ')}] >>`]);
+  images.forEach((img,i)=>{
+    const id=ids[i];object(id,[`<< /Type /Page /Parent 2 0 R /MediaBox [0 0 ${pw} ${ph}] /CropBox [0 0 ${pw} ${ph}] /Resources << /XObject << /Im ${id+1} 0 R >> >> /Contents ${id+2} 0 R >>`]);
+    object(id+1,[`<< /Type /XObject /Subtype /Image /Width ${img.width} /Height ${img.height} /ColorSpace /DeviceRGB /BitsPerComponent 8 /Filter /DCTDecode /Length ${img.blob.size} >>\nstream\n`,img.blob,'\nendstream']);
+    const stream=`q\n${pw} 0 0 ${ph} 0 0 cm\n/Im Do\nQ\n`;
+    object(id+2,[`<< /Length ${enc.encode(stream).byteLength} >>\nstream\n`,stream,'endstream']);
+  });
+  const xref=pos,count=3+images.length*3;
+  push(`xref\n0 ${count}\n0000000000 65535 f \n`);
+  for(let i=1;i<count;i++)push(`${String(offsets[i]).padStart(10,'0')} 00000 n \n`);
+  push(`trailer\n<< /Size ${count} /Root 1 0 R >>\nstartxref\n${xref}\n%%EOF\n`);
+  return new Blob(parts,{type:'application/pdf'});
+}
+function releasePdfPrepared(){
+  if(!pdfPrepared)return;
+  const {url,preview}=pdfPrepared;pdfPrepared=null;
+  // Do not revoke immediately: a new tab, Files or the system share sheet may still be reading it.
+  if(url)setTimeout(()=>URL.revokeObjectURL(url),300000);
+  if(preview)URL.revokeObjectURL(preview);
+}
+function pdfName(records){const safe=s=>String(s||'').replace(/[\\/:*?"<>|\x00-\x1f]/g,'_').slice(0,50);return records.length>1?`現場安全巡視_一括_${records.length}件.pdf`:`現場安全巡視_${safe(records[0].workDate)}_${safe(records[0].projectName)}.pdf`;}
+function pdfCanShare(file){try{return !!(file&&navigator.share&&navigator.canShare&&navigator.canShare({files:[file]}));}catch{return false;}}
+async function startPdf(records){
+  if(!records.length){toast('一括PDF・印刷するデータを選択してください');return;}
+  if(records.some(r=>!validateForOutput(r)))return;
+  // A snapshot protects against later UI edits while a PDF is being generated.
+  records=clone(records);
+  const job=++pdfJob,dialog=$('pdfDialog'),message=$('pdfMessage');releasePdfPrepared();$('pdfOpenBtn').removeAttribute('href');$('pdfSaveBtn').removeAttribute('href');
+  $('pdfShareBtn').classList.add('hidden');$('pdfOpenBtn').classList.add('hidden');$('pdfSaveBtn').classList.add('hidden');$('pdfPreviewArea').classList.add('hidden');$('pdfPreview').removeAttribute('src');
+  message.textContent='A4縦のPDFを準備しています…';message.classList.remove('pdf-error');$('pdfCount').textContent='';$('pdfProgress').classList.remove('hidden');$('pdfProgress').max=records.length;$('pdfProgress').value=0;
+  if(!dialog.open)dialog.showModal();
+  const images=[];let continuation=0;
+  try{
+    if(document.fonts?.ready)await document.fonts.ready;
+    for(let i=0;i<records.length;i++){
+      if(job!==pdfJob||!dialog.open)return;
+      message.textContent=`PDFを作成しています（${i+1}/${records.length}件）…`;
+      const record=records[i],canvas=document.createElement('canvas');
+      canvas.width=Math.round(PDF_FORM.width*PDF_FORM.pixelsPerMm);canvas.height=Math.round(PDF_FORM.height*PDF_FORM.pixelsPerMm);
+      try{
+        const ctx=canvas.getContext('2d',{alpha:false});if(!ctx)throw new Error('PDFの描画機能を利用できません。');
+        const identity=await pdfIdentity(record);if(job!==pdfJob)return;
+        ctx.setTransform(canvas.width/PDF_FORM.width,0,0,canvas.height/PDF_FORM.height,0,0);
+        const plan=pdfPlan(ctx,record);continuation+=Math.max(0,plan.pages.length-1);
+        for(let p=0;p<plan.pages.length;p++){
+          if(job!==pdfJob||!dialog.open)return;
+          ctx.fillStyle='#fff';ctx.fillRect(0,0,210,297);pdfDrawHeader(ctx,record,plan.header,identity,p+1,plan.pages.length);pdfDrawTable(ctx,plan,plan.pages[p],record,p+1,plan.pages.length);
+          images.push({blob:await pdfCanvasJpeg(canvas),width:canvas.width,height:canvas.height});
+        }
+      }finally{canvas.width=1;canvas.height=1;}
+      $('pdfProgress').value=i+1;
+    }
+    if(job!==pdfJob||!dialog.open)return;
+    const blob=pdfFromImages(images),name=pdfName(records),file=typeof File==='function'?new File([blob],name,{type:'application/pdf'}):null;
+    const url=URL.createObjectURL(blob),preview=URL.createObjectURL(images[0].blob),shareable=pdfCanShare(file);
+    pdfPrepared={blob,file,url,preview};
+    $('pdfPreview').src=preview;$('pdfPreviewArea').classList.remove('hidden');$('pdfPreviewCaption').textContent=images.length===1?'生成したA4縦PDFのプレビュー':'先頭ページのプレビュー（全ページはPDFを開いて確認できます）';
+    $('pdfCount').textContent=`A4縦 ${images.length}ページ ／ ${records.length}件`+(continuation?`（長い記録の続紙 ${continuation}ページを含む）`:'');
+    $('pdfOpenBtn').href=url;$('pdfSaveBtn').href=url;$('pdfSaveBtn').download=name;
+    $('pdfOpenBtn').classList.remove('hidden');$('pdfSaveBtn').classList.remove('hidden');
+    $('pdfShareBtn').classList.toggle('hidden',!shareable);
+    message.textContent=shareable?'「PDFを共有・印刷」から共有画面の「プリント」を選んでください。':'「PDFを開く」からPDFの印刷機能をご利用ください。';
+    $('pdfProgress').classList.add('hidden');
+  }catch(e){if(job!==pdfJob)return;console.error(e);message.textContent=e?.message||'PDFの生成に失敗しました。もう一度お試しください。';message.classList.add('pdf-error');$('pdfProgress').classList.add('hidden');releasePdfPrepared();}
+}
+async function sharePreparedPdf(){
+  const prepared=pdfPrepared;if(!prepared)return;
+  if(!pdfCanShare(prepared.file)){$('pdfMessage').textContent='「PDFを開く」または「PDFを保存」から印刷してください。';return;}
+  try{await navigator.share({files:[prepared.file],title:'現場安全巡視点検表'});}
+  catch(e){if(e?.name==='AbortError')return;$('pdfMessage').textContent='共有できませんでした。「PDFを開く」または「PDFを保存」から印刷してください。';}
+}
+function printSelectedRecords(){return startPdf(selectedHistoryRecords());}
+function printRecord(r){return startPdf([r]);}
 function validateForOutput(r){if(!r.projectName||!r.workDate||!r.inspector){toast('工事名・巡視日・巡視者氏名を入力してください');return false}return true}
 function imageLoad(src){return new Promise((resolve,reject)=>{const im=new Image();im.onload=()=>resolve(im);im.onerror=reject;im.src=src})}
 async function identityDataUrl(r){const c=document.createElement('canvas');c.width=240;c.height=240;const ctx=c.getContext('2d');ctx.clearRect(0,0,240,240);if(r.identityMode==='photo'&&r.photoData){const im=await imageLoad(r.photoData),side=Math.min(im.naturalWidth,im.naturalHeight),sx=(im.naturalWidth-side)/2,sy=(im.naturalHeight-side)/2;ctx.drawImage(im,sx,sy,side,side,0,0,240,240);return c.toDataURL('image/png')}ctx.fillStyle='#fff';ctx.fillRect(0,0,240,240);ctx.strokeStyle='#c52f2f';ctx.lineWidth=8;ctx.beginPath();ctx.arc(120,120,98,0,Math.PI*2);ctx.stroke();const t=(r.sealText||deriveSurname(r.inspector)||'印').slice(0,4);ctx.fillStyle='#c52f2f';ctx.textAlign='center';ctx.textBaseline='middle';ctx.font=`700 ${t.length>=4?42:t.length===3?48:58}px "Yu Mincho","Hiragino Mincho ProN",serif`;const chars=[...t],gap=t.length>=4?42:t.length===3?48:58,start=120-gap*(chars.length-1)/2;chars.forEach((ch,i)=>ctx.fillText(ch,120,start+i*gap));return c.toDataURL('image/png')}
@@ -379,13 +615,25 @@ function voiceSupported(){return !!(window.SpeechRecognition||window.webkitSpeec
 function cleanVoiceText(t){return String(t||'').trim().replace(/[。．.、，,！？!?；;：:]+$/g,'').trim()}
 function startVoice(target,button){if(!voiceSupported()){toast('音声入力はChrome / Edgeで利用してください');return}try{try{recognition?.abort()}catch{}const SR=window.SpeechRecognition||window.webkitSpeechRecognition;recognition=new SR();recognition.lang='ja-JP';recognition.interimResults=false;recognition.continuous=false;button?.classList.add('listening');recognition.onresult=e=>{const t=cleanVoiceText([...e.results].map(x=>x[0].transcript).join(''));if(target.tagName==='TEXTAREA'&&target.value.trim())target.value=target.value.trim()+' '+t;else target.value=t;target.dispatchEvent(new Event('input',{bubbles:true}))};recognition.onerror=()=>toast('音声入力を開始できませんでした');recognition.onend=()=>button?.classList.remove('listening');recognition.start()}catch{button?.classList.remove('listening');toast('音声入力を開始できませんでした')}}
 function bind(){
+  $('closePdfDialog').onclick=()=>$('pdfDialog').close();
+  $('pdfDialog').addEventListener('close',()=>{if($('pdfDialog').open)return;pdfJob++;releasePdfPrepared();$('pdfPreview').removeAttribute('src');$('pdfOpenBtn').removeAttribute('href');$('pdfSaveBtn').removeAttribute('href');});
+  $('pdfShareBtn').onclick=sharePreparedPdf;
   ['projectName','workDate','patrolTime','weather','remarks'].forEach(id=>$(id).addEventListener('input',()=>syncMeta(true)));
   $('inspector').addEventListener('input',()=>{state.inspector=$('inspector').value;state.sealText=deriveSurname(state.inspector);$('sealText').value=state.sealText;markDirty();renderIdentity()});
   $('sealText').addEventListener('input',()=>{state.sealText=$('sealText').value;markDirty();renderIdentity()});
   $('autoSealBtn').onclick=()=>{state.sealText=deriveSurname($('inspector').value);$('sealText').value=state.sealText;markDirty();renderIdentity()};
   document.querySelectorAll('input[name="identityMode"]').forEach(r=>r.addEventListener('change',()=>{state.identityMode=r.value;markDirty();renderIdentity()}));
-  $('photoInput').onchange=async e=>{const f=e.target.files?.[0];if(!f)return;try{state.photoData=await compressImage(f);markDirty();renderIdentity();toast('写真を設定しました')}catch{toast('写真を読み込めませんでした')}e.target.value=''};
-  $('removePhoto').onclick=()=>{state.photoData='';markDirty();renderIdentity()};
+  let photoJob=0;
+  const receivePhoto=async e=>{
+    const input=e.target,f=input.files?.[0];input.value='';if(!f)return;
+    const record=state,job=++photoJob;
+    try{const data=await compressImage(f);if(job!==photoJob||state!==record)return;state.photoData=data;markDirty();renderIdentity();toast('写真を設定しました')}
+    catch{if(job===photoJob&&state===record)toast('写真を読み込めませんでした')}
+  };
+  $('takePhotoBtn').onclick=()=>$('cameraInput').click();
+  $('choosePhotoBtn').onclick=()=>$('photoInput').click();
+  $('cameraInput').onchange=receivePhoto;$('photoInput').onchange=receivePhoto;
+  $('removePhoto').onclick=()=>{photoJob++;state.photoData='';markDirty();renderIdentity()};
   document.body.addEventListener('click',e=>{const b=e.target.closest('[data-voice]');if(b)startVoice($(b.dataset.voice),b)});
   $('checkBody').onclick=e=>{const tr=e.target.closest('tr[data-id]');const id=tr?.dataset.id;const j=e.target.closest('.judge-btn');if(j&&id){setStatus(id,j.dataset.status);return}const vn=e.target.closest('[data-voice-note]');if(vn){const ta=document.querySelector(`textarea[data-note="${CSS.escape(vn.dataset.voiceNote)}"]`);if(ta)startVoice(ta,vn);return}const vi=e.target.closest('[data-voice-item]');if(vi){const ta=document.querySelector(`textarea[data-item-label="${CSS.escape(vi.dataset.voiceItem)}"]`);if(ta)startVoice(ta,vi);return}const del=e.target.closest('[data-delete-item]');if(del){deleteItem(del.dataset.deleteItem);return}const add=e.target.closest('[data-add-section]');if(add){addItem(add.dataset.addSection);return}};
   $('checkBody').oninput=e=>{if(e.target.matches('textarea[data-note]')){const c=getCheck(e.target.dataset.note);if(c){c.note=e.target.value;markDirty()}}if(e.target.matches('textarea[data-item-label]')){const it=state.items.find(x=>x.id===e.target.dataset.itemLabel);if(it){it.label=e.target.value;persistTemplateFromState();markDirty()}}};

diff --git a/service-worker.js b/service-worker.js
@@ -1,5 +1,5 @@
 const CACHE_PREFIX='moriken-safety-patrol-';
-const CACHE=CACHE_PREFIX+'v0.3.10-r1';
+const CACHE=CACHE_PREFIX+'v0.3.12-r1';
 const ASSETS=['./','./index.html','./manifest.webmanifest','./icon.svg','./app-info.json','./version.json','./excel-export.js','./templates/safety-patrol-template.xlsx','./guide-quick.png','./guide-detail.png'];
 const base=self.registration.scope;
 const assetURLs=new Set(ASSETS.map(path=>new URL(path,base).href));

diff --git a/CHANGELOG.md b/CHANGELOG.md
@@ -1,5 +1,17 @@
 # 変更履歴
 
+## v0.3.12 (2026-11-25)
+- PDF帳票の巡視員名横の印欄を削除し、氏名欄へ統合。右側の安全巡視員欄は維持
+- 撮影ボタンと写真選択ボタンを分離。撮影用ファイル入力で前面カメラを指定。未対応端末ではOSの写真選択画面になる場合があります
+- 撮影キャンセルや読込失敗時は保存済み写真を変更しない
+- 画像付き取説を更新。元帳票Excel、保存キー・保存形式、既存の印刷・一括処理、画像キャッシュ更新を維持
+
+## v0.3.11 (2026-11-25)
+- ブラウザHTML印刷を廃止し、用紙寸法が固定されたA4縦のPDF実ファイルを生成。通常30項目・備考を1件1ページに収める
+- 現在の記録・保存データの個別PDF・複数選択一括PDFに共通適用
+- 共有・印刷／PDFを開く／PDFを保存を用意。長文が1ページに収まらない場合のみ、切り捨てず続紙へ出力
+- 保存キーと保存処理、元帳票Excel出力、既存の画面、旧画像キャッシュのみの削除処理を維持
+
 ## v0.3.10 (2026-11-25)
 - アプリ構成画像3枚（guide-quick.png / guide-detail.png / icon.svg）の旧キャッシュだけを自動削除・更新。画像URLのクエリ付き旧キャッシュも対象。
 - 旧キャッシュ全体は削除せず、HTML・JS・Excelテンプレート等の既存キャッシュや他アプリのキャッシュを保持。最新版は新しい専用キャッシュから参照。
